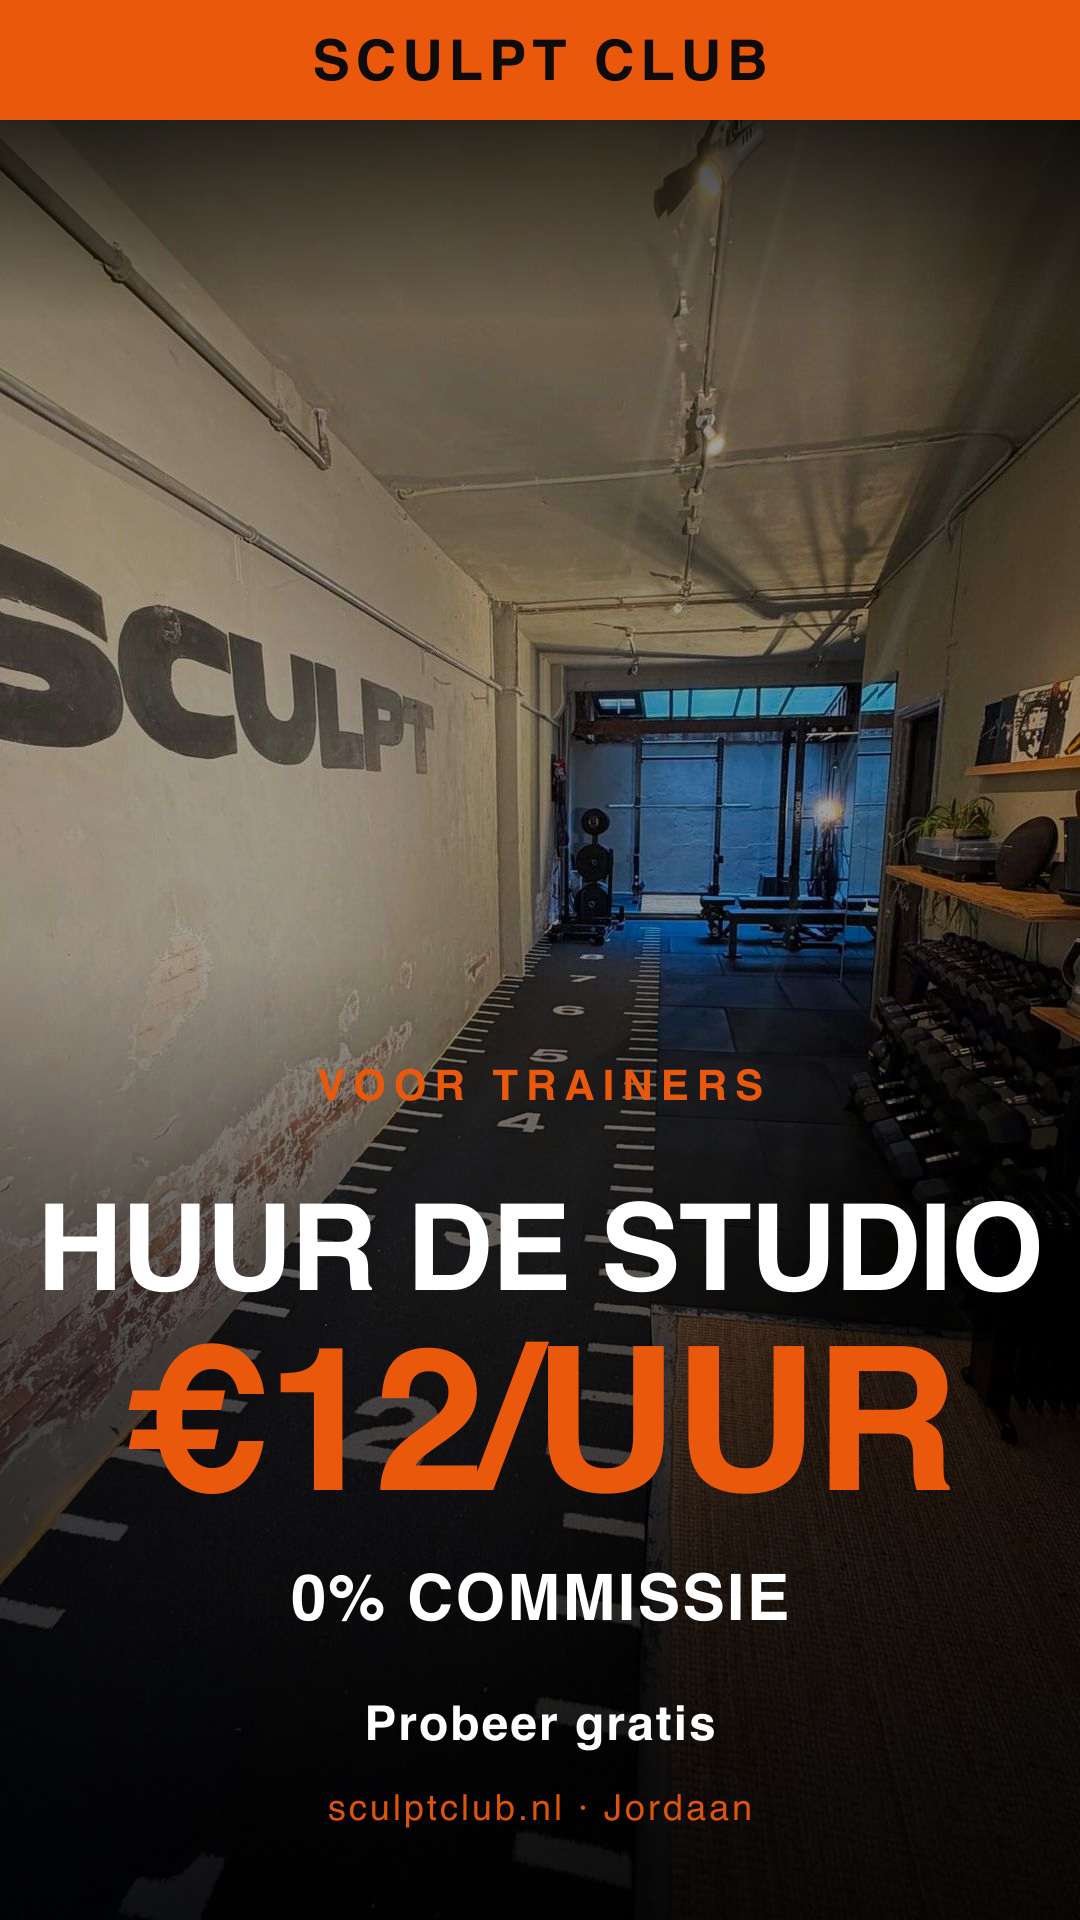
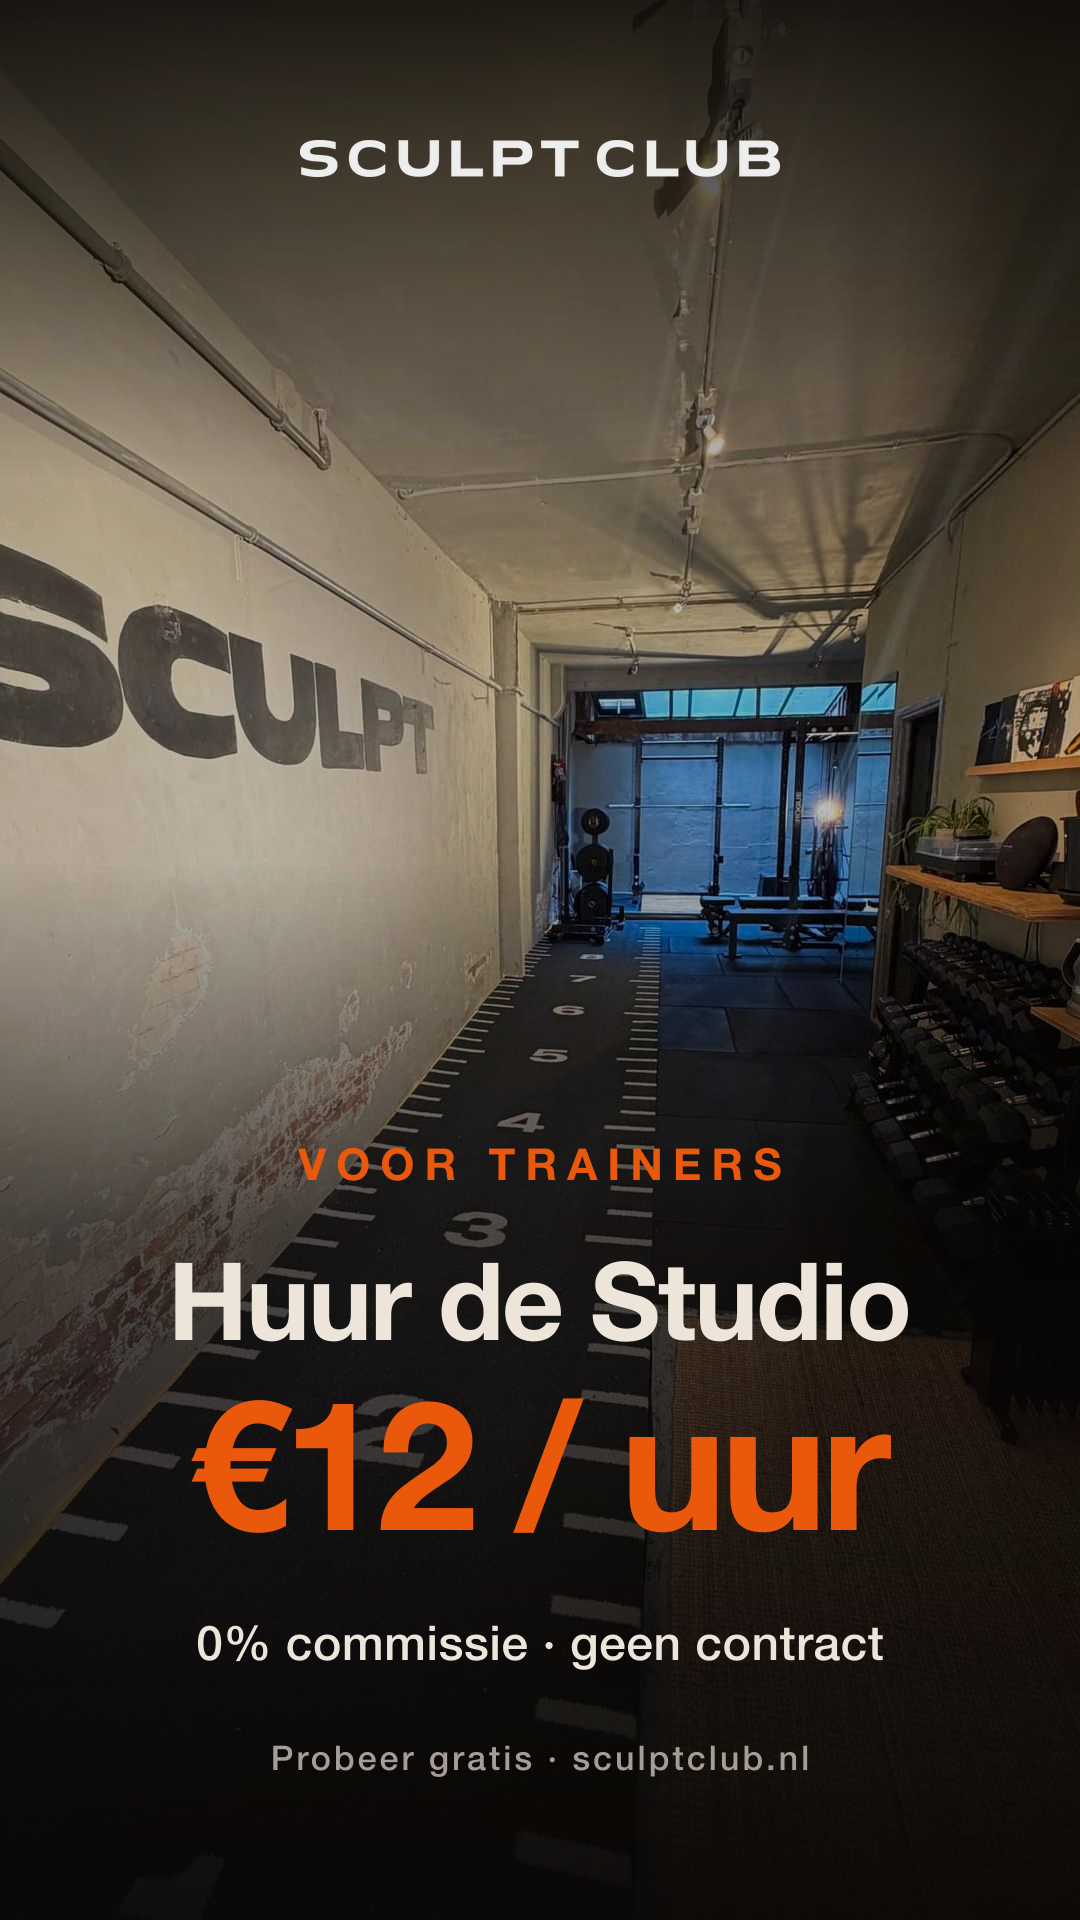
content(social): rev 2 — 3-slide carousel · readstacks-grade craft
Operator feedback: "make the best image(s) possible · check margins ·
all details great like font use" + readstacks.com reference.

Applied professional social-card design principles:
- 96px consistent edge margins (no text touches edges)
- Generous whitespace between hierarchy levels
- 3-tier typography max (Hero · Price · Meta) — cleaner than rev 1's
  5 sizes (eyebrow 44, hero 108, price 180, usp 48, cta 34)
- Brand wordmark as anchor (actual PNG, recolored white via .negate())
- Single focal message per slide
- High contrast verified AA Normal + AAA Large
- Photo + dual-gradient overlay (top-fade + bottom-fade) for legibility

3-slide carousel structure:
- Slide 1 · Main offer · "Huur de Studio · €12/uur" (studio-overview photo)
- Slide 2 · USP · "Houd 100% · 0% commissie" (studio-interior photo)
- Slide 3 · Location · "Jordaan · €12/uur" (canal-door photo)

Each slide:
- Top 14% wordmark anchor (centered, with top-fade gradient)
- Middle 50% photo (darkened 75% for text-zone contrast)
- Bottom 36% content stack (eyebrow → hero → price → usp → cta)
- Same 96px side margins throughout

Phone download page (/social/post.html) updated:
- 3 slide previews stacked (each downloadable individually)
- Caption + hashtags copy buttons unchanged
- Combined-copy button for fastest paste workflow
- "Design details" expandable showing typography/contrast specs
- 8-step carousel post workflow (vs prior 7-step single-image)
[…]

diff --git a/public/social/post.html b/public/social/post.html
@@ -23,17 +23,48 @@
     body { padding: max(env(safe-area-inset-top), 1rem) 1rem max(env(safe-area-inset-bottom), 1rem); max-width: 560px; margin: 0 auto; }
     h1 { font-size: 1.6rem; margin: 0.5rem 0 0.25rem; letter-spacing: -0.02em; }
     h2 { font-size: 0.85rem; text-transform: uppercase; letter-spacing: 0.12em; color: var(--brand); margin: 2rem 0 0.6rem; font-weight: 700; }
-    p { line-height: 1.5; }
-    .subtitle { color: var(--muted); font-size: 0.95rem; margin-top: 0; }
-    .preview {
+    .subtitle { color: var(--muted); font-size: 0.95rem; margin-top: 0; line-height: 1.5; }
+    .slides {
+      display: grid;
+      gap: 16px;
+      margin: 1.5rem 0;
+    }
+    .slide {
+      background: var(--card);
+      border: 1px solid var(--border);
+      border-radius: 16px;
+      overflow: hidden;
+    }
+    .slide-img {
       display: block;
       width: 100%;
-      max-width: 320px;
-      margin: 1.5rem auto;
-      border-radius: 16px;
-      box-shadow: 0 10px 30px rgba(0,0,0,0.4);
       aspect-ratio: 9 / 16;
       object-fit: cover;
+    }
+    .slide-meta {
+      padding: 12px 16px;
+      display: flex;
+      align-items: center;
+      justify-content: space-between;
+      gap: 12px;
+    }
+    .slide-label {
+      font-size: 0.8rem;
+      color: var(--muted);
+      font-weight: 500;
+    }
+    .slide-num {
+      display: inline-block;
+      width: 28px;
+      height: 28px;
+      background: var(--brand);
+      color: var(--near-black);
+      border-radius: 999px;
+      font-weight: 800;
+      font-size: 0.85rem;
+      text-align: center;
+      line-height: 28px;
+      margin-right: 6px;
     }
     .btn {
       display: block;
@@ -59,9 +90,11 @@
       color: var(--fg);
       border: 1px solid var(--border);
       font-weight: 600;
+      font-size: 0.9rem;
+      padding: 12px 16px;
     }
     .btn-secondary:active { background: var(--border); }
-    .stack > * + * { margin-top: 12px; }
+    .btn-group { display: grid; gap: 8px; padding: 0 16px 16px; }
     .card {
       background: var(--card);
       border: 1px solid var(--border);
@@ -132,15 +165,44 @@
 </head>
 <body>
 
-  <div class="pill">TikTok Post · Klaar om te plaatsen</div>
+  <div class="pill">3-slide carousel · klaar om te plaatsen</div>
   <h1>Voor Trainers · Huur de Studio</h1>
-  <p class="subtitle">Replicates het 10.5K-view winnende formaat — direct posten of via CapCut bewerken.</p>
+  <p class="subtitle">Post als TikTok Photo Mode carousel — viewers swipen door 3 slides van offer → USP → locatie. Replicates het 10.5K-view winnende formaat met readstacks-grade typografie + 96px margins.</p>
 
-  <img src="/social/best-tiktok-post.png" alt="SculptClub TikTok post preview" class="preview" id="post-image">
+  <h2>📱 3 slides · download alle</h2>
+  <div class="slides">
 
-  <a href="/social/best-tiktok-post.png" download="sculptclub-tiktok-post.png" class="btn">
-    📥 Download afbeelding
-  </a>
+    <div class="slide">
+      <img src="/social/best-tiktok-post.png" class="slide-img" alt="Slide 1 — Huur de studio €12/uur">
+      <div class="slide-meta">
+        <span class="slide-label"><span class="slide-num">1</span>Main offer · €12/uur</span>
+      </div>
+      <div class="btn-group">
+        <a href="/social/best-tiktok-post.png" download="sculptclub-slide-1.png" class="btn">📥 Download slide 1</a>
+      </div>
+    </div>
+
+    <div class="slide">
+      <img src="/social/best-tiktok-post-2.png" class="slide-img" alt="Slide 2 — Houd 100% · 0% commissie">
+      <div class="slide-meta">
+        <span class="slide-label"><span class="slide-num">2</span>USP · 0% commissie</span>
+      </div>
+      <div class="btn-group">
+        <a href="/social/best-tiktok-post-2.png" download="sculptclub-slide-2.png" class="btn">📥 Download slide 2</a>
+      </div>
+    </div>
+
+    <div class="slide">
+      <img src="/social/best-tiktok-post-3.png" class="slide-img" alt="Slide 3 — Jordaan locatie">
+      <div class="slide-meta">
+        <span class="slide-label"><span class="slide-num">3</span>Location · Jordaan</span>
+      </div>
+      <div class="btn-group">
+        <a href="/social/best-tiktok-post-3.png" download="sculptclub-slide-3.png" class="btn">📥 Download slide 3</a>
+      </div>
+    </div>
+
+  </div>
 
   <h2>📝 Caption</h2>
   <div class="card">
@@ -158,18 +220,19 @@ Probeer gratis · sculptclub.nl/voor-trainers</div>
     <button class="copy-btn" onclick="copyText('hashtags-text', this)">📋 Kopieer hashtags</button>
   </div>
 
-  <h2>📝 Caption + hashtags samen</h2>
+  <h2>⚡ Snelste pad</h2>
   <div class="card">
-    <button class="copy-btn" onclick="copyCombined(this)">📋 Kopieer beide samen (caption + hashtags)</button>
+    <button class="copy-btn" onclick="copyCombined(this)">📋 Kopieer caption + hashtags samen</button>
+    <p style="color: var(--muted); font-size: 0.85rem; margin: 0.8rem 0 0">Eén tap → plak in TikTok caption field → klaar.</p>
   </div>
 
   <h2>🎵 Suggested sound</h2>
   <div class="card">
     <p style="margin:0 0 0.5rem"><strong>Zoek in TikTok's sound library:</strong></p>
     <ul style="margin: 0; padding-left: 1.2em; line-height: 1.7">
-      <li>Top-trending NL fitness sound (check For You feed van vandaag voor wat hot is)</li>
+      <li>Top-trending NL fitness sound (check For You feed van vandaag)</li>
       <li>Deep house / electronic instrumental (matcht boutique gym vibe)</li>
-      <li>Calvin Harris instrumentals (premium energy)</li>
+      <li>Carousel-friendly sounds: zoek "carousel template"</li>
     </ul>
     <p style="color: var(--muted); font-size: 0.85rem; margin: 0.8rem 0 0">⚠ Alleen TikTok's library — geen externe muziek (copyright strike risk).</p>
   </div>
@@ -181,17 +244,30 @@ Probeer gratis · sculptclub.nl/voor-trainers</div>
     <div class="meta-row"><span class="meta-key">Vermijd</span><span class="meta-val">Vrijdag/Zaterdag avond</span></div>
   </div>
 
-  <h2>🚀 Workflow (90 sec)</h2>
+  <h2>🚀 Workflow (carousel · 2 min)</h2>
   <div class="card">
     <ol class="steps">
-      <li>Tap <strong>"📥 Download afbeelding"</strong> hierboven → Photos opent</li>
+      <li>Download alle 3 slides bovenaan (één tap per slide → Photos)</li>
       <li>Open <strong>TikTok app</strong> → tap "+" onderin</li>
-      <li>Tap <strong>"Camera roll"</strong> (links onder) → kies SculptClub post</li>
-      <li>Tap <strong>"Next"</strong> → trim naar 5-10 sec (of laat staan)</li>
-      <li>Tap <strong>"Sound"</strong> bovenin → zoek trending NL fitness sound</li>
-      <li>Tap <strong>"Next"</strong> → plak caption + hashtags (kopieer hierboven)</li>
+      <li>Switch naar <strong>"Photos"</strong> mode (rechts onderin)</li>
+      <li>Tap <strong>"Camera roll"</strong> → select alle 3 SculptClub slides in volgorde (1 → 2 → 3)</li>
+      <li>Tap <strong>"Next"</strong> → kies template/transition (TikTok suggesteert auto)</li>
+      <li>Tap <strong>"Sound"</strong> → kies trending sound (zie hierboven)</li>
+      <li>Tap <strong>"Next"</strong> → plak caption + hashtags (kopieer-knop hierboven)</li>
       <li>Tap <strong>"Post"</strong> · klaar</li>
     </ol>
+  </div>
+
+  <h2>🎨 Design details (voor de geinteresseerde)</h2>
+  <div class="card" style="font-size: 0.85rem; color: var(--muted); line-height: 1.6">
+    <div class="meta-row"><span class="meta-key">Formaat</span><span class="meta-val" style="color: var(--fg)">1080 × 1920 (9:16)</span></div>
+    <div class="meta-row"><span class="meta-key">Marges</span><span class="meta-val" style="color: var(--fg)">96px consistent rondom</span></div>
+    <div class="meta-row"><span class="meta-key">Brand kleur</span><span class="meta-val" style="color: var(--brand)">#EA580C</span></div>
+    <div class="meta-row"><span class="meta-key">Foreground</span><span class="meta-val" style="color: var(--fg)">#EDE5DA warm-off-white</span></div>
+    <div class="meta-row"><span class="meta-key">Hero font</span><span class="meta-val" style="color: var(--fg)">Helvetica Black 108px</span></div>
+    <div class="meta-row"><span class="meta-key">Price font</span><span class="meta-val" style="color: var(--fg)">Helvetica Black 180px</span></div>
+    <div class="meta-row"><span class="meta-key">Eyebrow</span><span class="meta-val" style="color: var(--fg)">Tracking 10 · brand orange</span></div>
+    <div class="meta-row"><span class="meta-key">Contrast</span><span class="meta-val" style="color: var(--fg)">5.65:1 AA + AAA Large</span></div>
   </div>
 
   <div class="footer">
@@ -206,15 +282,6 @@ function copyText(elId, btn) {
     btn.innerHTML = '✅ Gekopieerd!';
     btn.classList.add('copied');
     setTimeout(() => { btn.innerHTML = original; btn.classList.remove('copied'); }, 2000);
-  }).catch(() => {
-    // Fallback for non-clipboard browsers
-    const range = document.createRange();
-    range.selectNode(document.getElementById(elId));
-    window.getSelection().removeAllRanges();
-    window.getSelection().addRange(range);
-    document.execCommand('copy');
-    btn.innerHTML = '✅ Gekopieerd!';
-    setTimeout(() => location.reload(), 2000);
   });
 }
 
